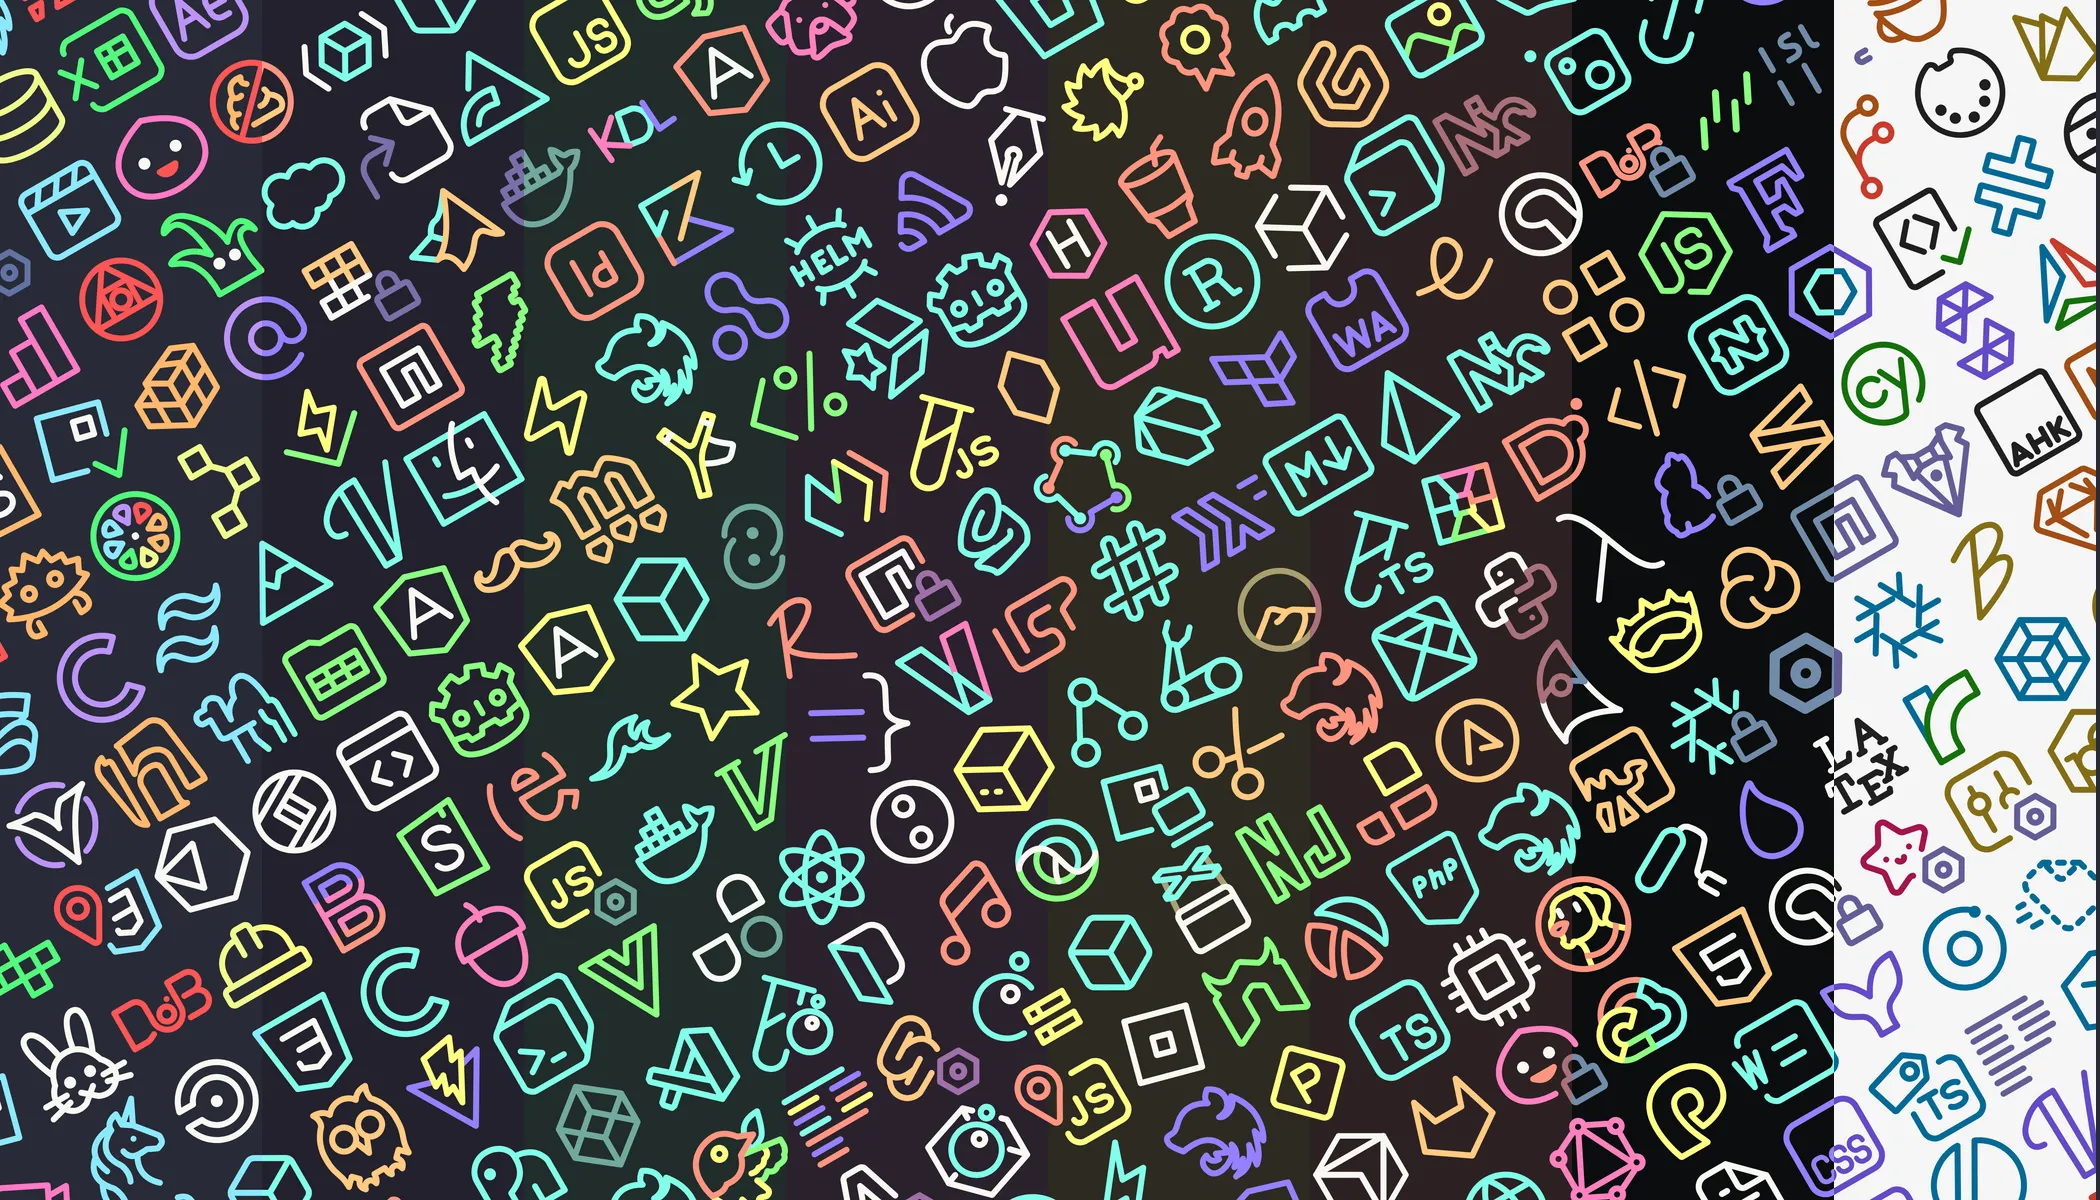
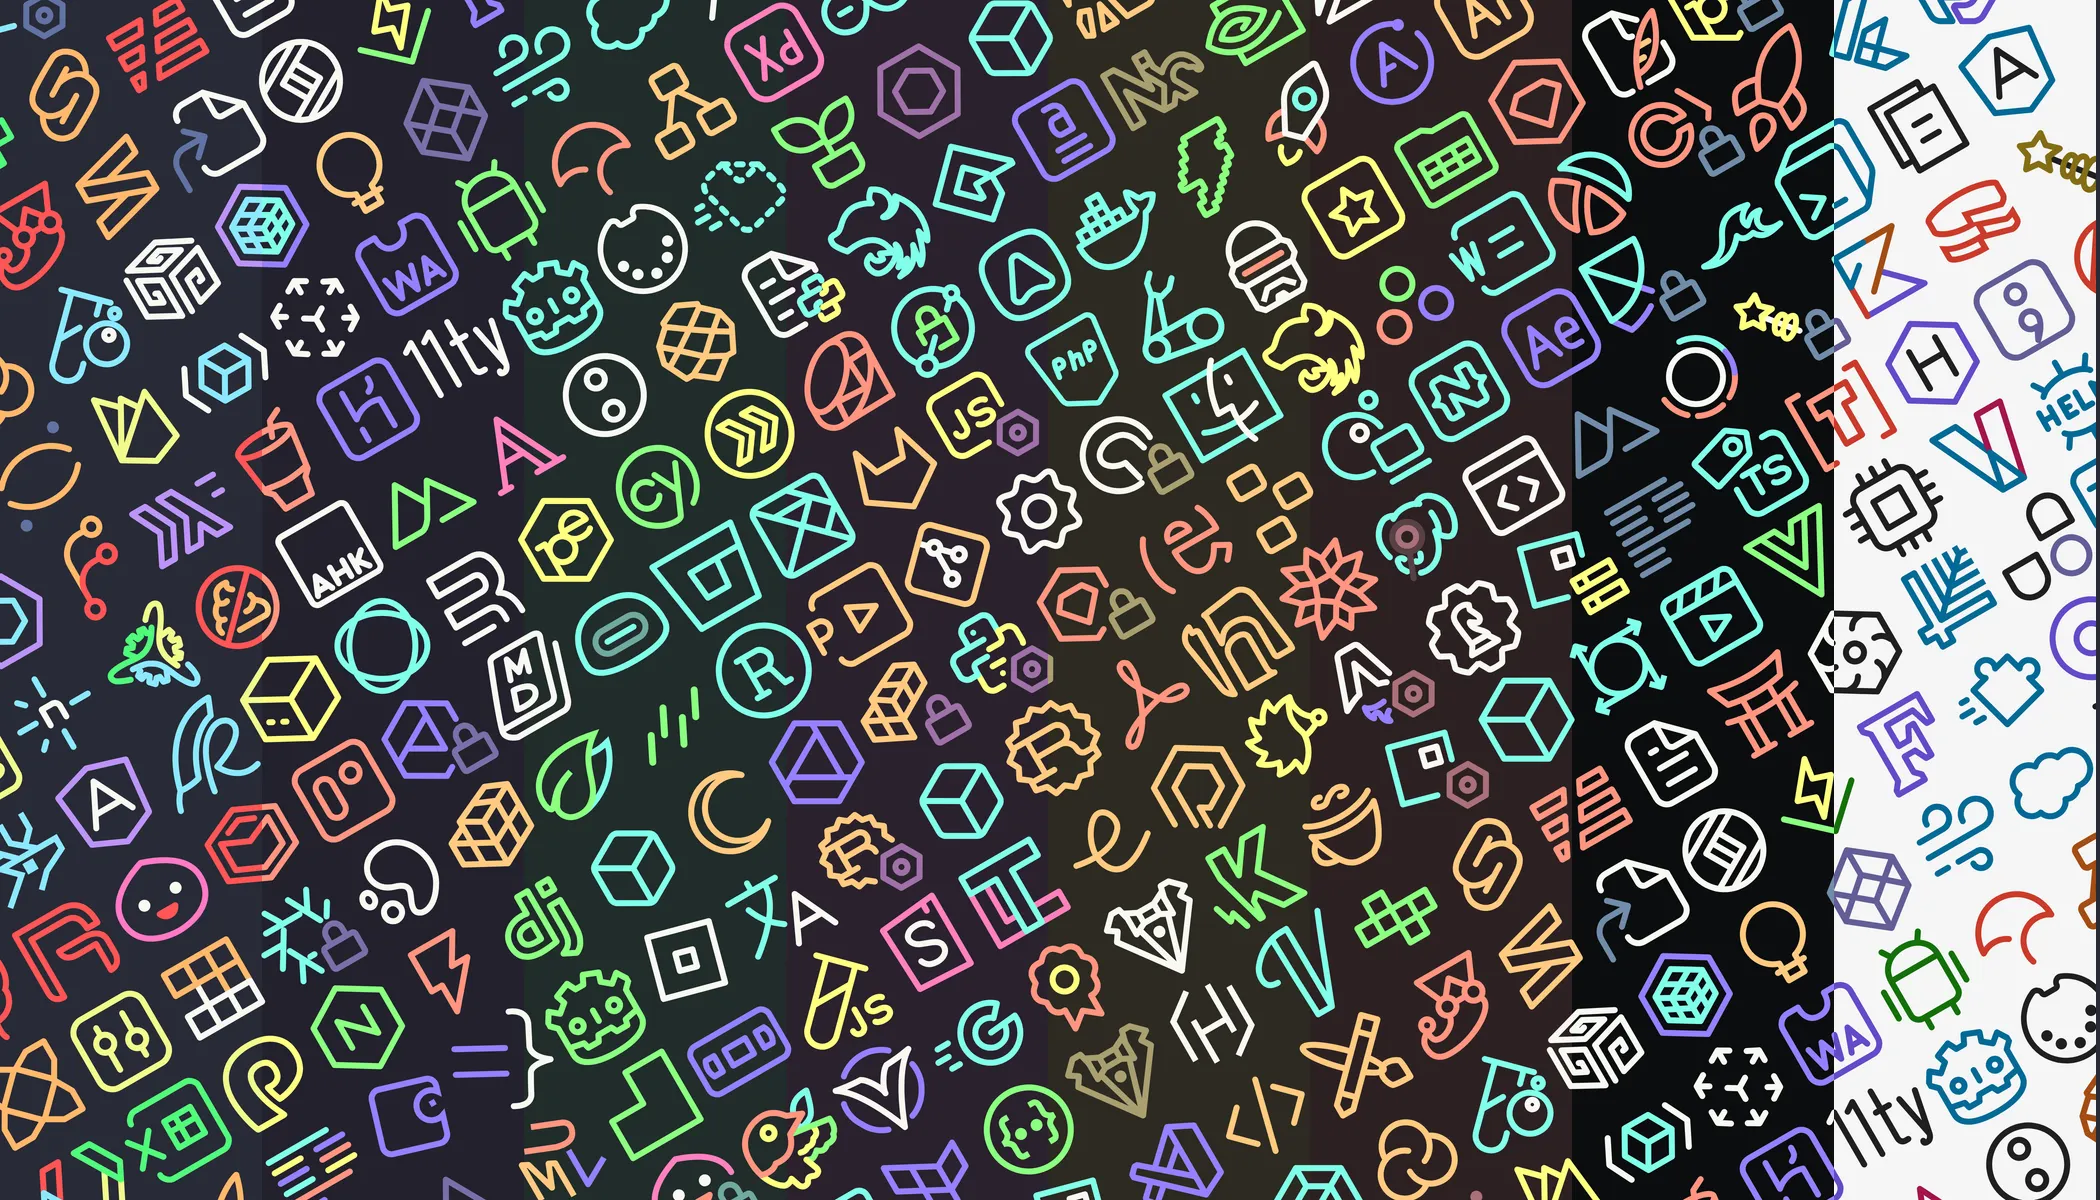
Asociaciones faltantes 2.

diff --git a/src/defaults/fileIcons.ts b/src/defaults/fileIcons.ts
@@ -2958,6 +2958,10 @@ const fileIcons: FileIcons = {
   'swiftformat': {
     fileNames: ['.swiftformat'],
   },
+  'symlink': {
+    fileNames: ['symlink'],
+    fileExtensions: ['lnk'],
+  },
   'syncpack': {
     fileNames: [
       '.syncpackrc',

diff --git a/src/defaults/folderIcons.ts b/src/defaults/folderIcons.ts
@@ -837,6 +837,9 @@ const folderIcons: FolderIcons = {
       'svgs',
     ],
   },
+  'symlink': {
+    folderNames: ['symlink', 'symlinks', '.symlink'],
+  },
   'task': {
     folderNames: ['task', 'tasks'],
   },
